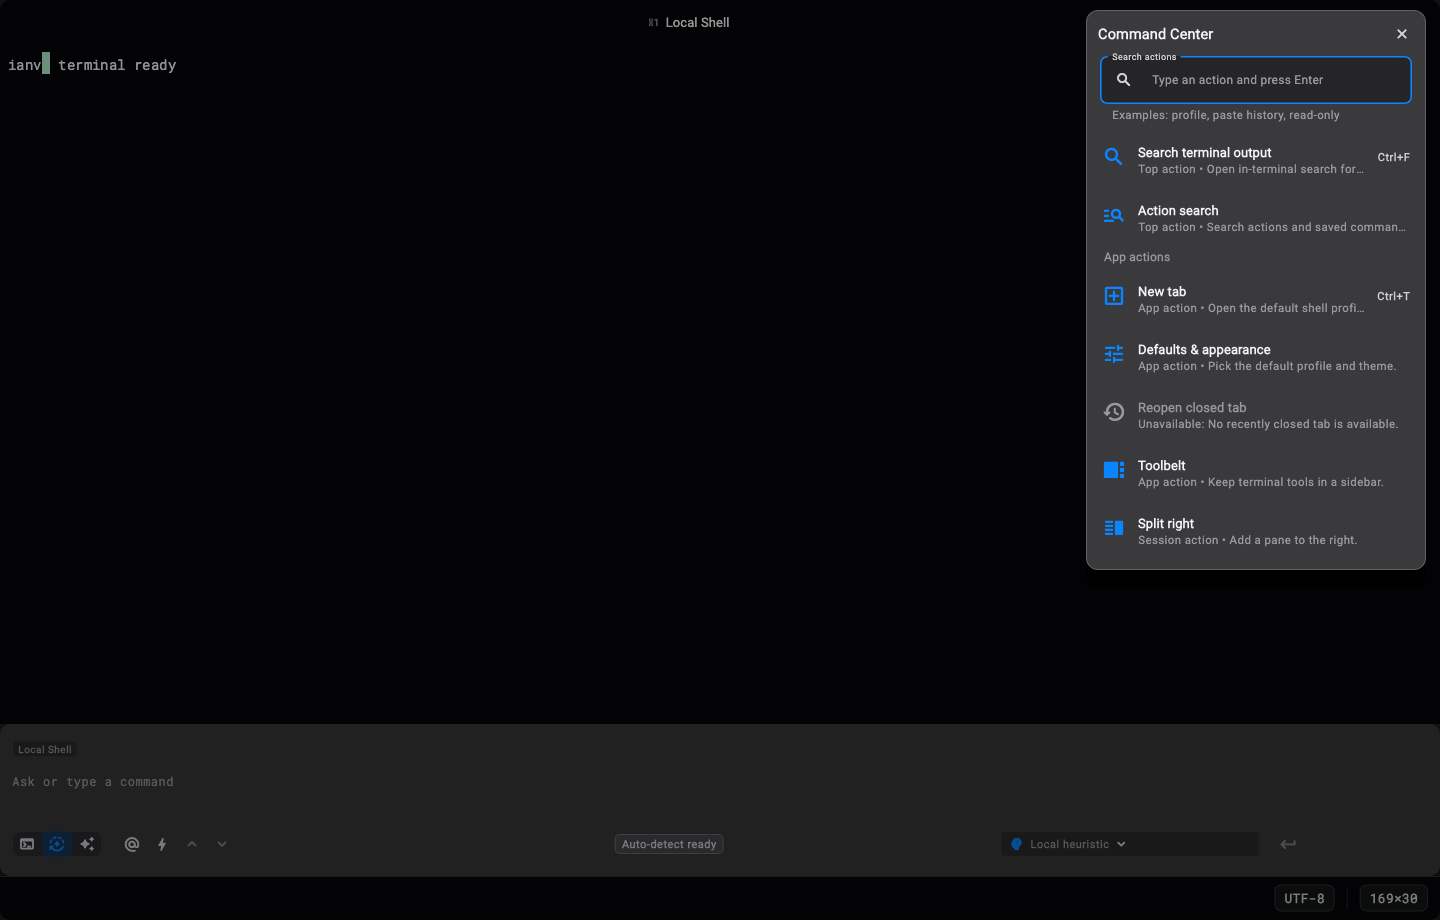
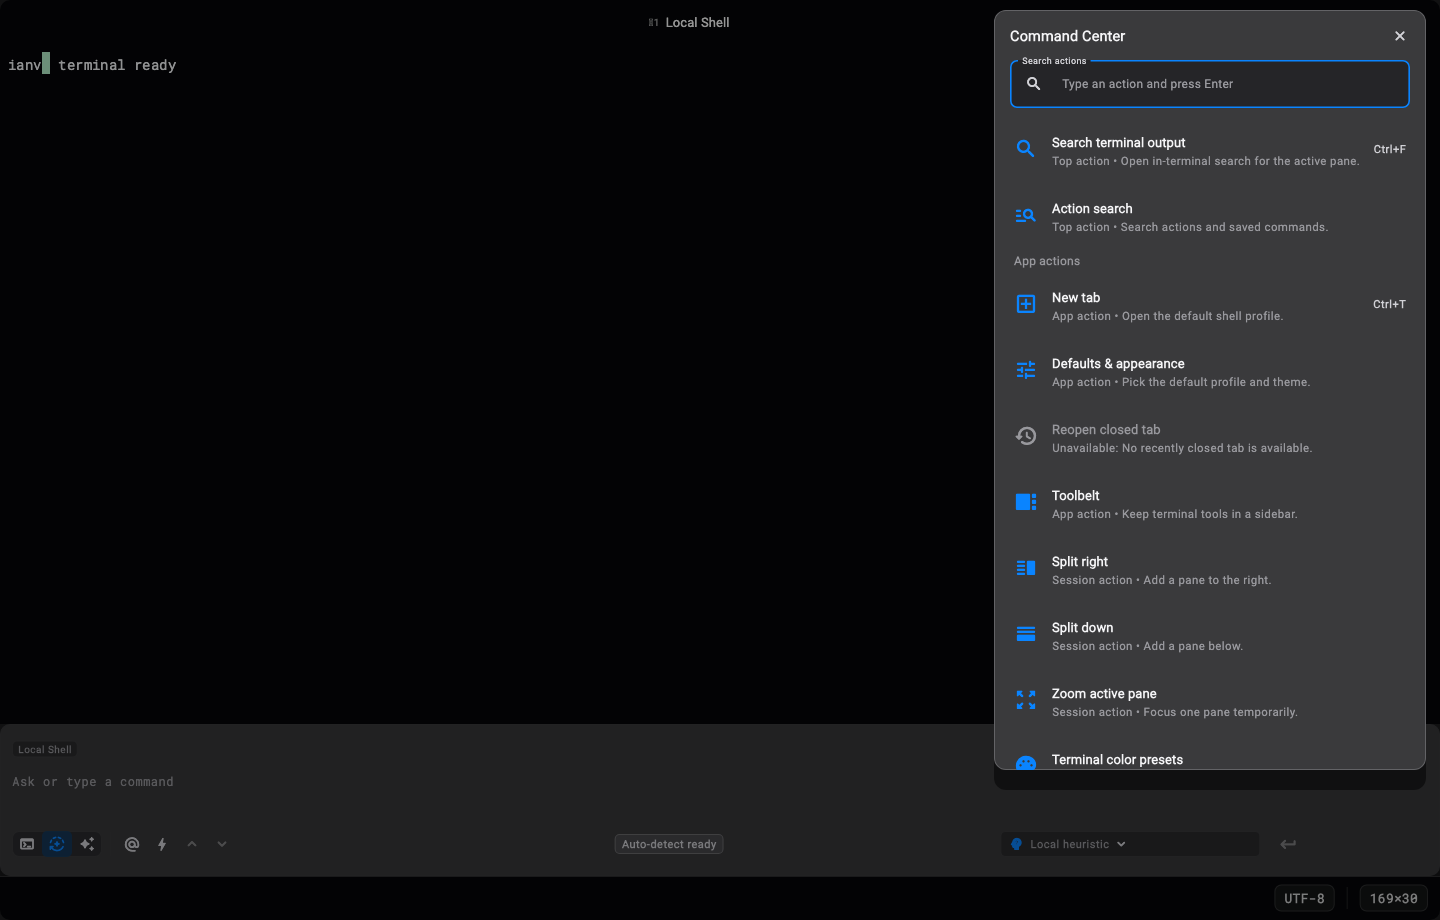
Polish command center layout from visual reference

Changed region(s): [[0.6875, 0.0, 1.0, 0.8522], [0.8438, 0.2435, 0.9688, 0.2739], [0.9375, 0.3043, 0.9688, 0.3348]]

diff --git a/example/lib/features/shell/shell_screen_command_menu.dart b/example/lib/features/shell/shell_screen_command_menu.dart
@@ -102,9 +102,15 @@ class _ShellCommandMenuState extends State<_ShellCommandMenu> {
   @override
   Widget build(BuildContext context) {
     final palette = context.appTheme;
-    final maxMenuHeight = (MediaQuery.sizeOf(context).height - 24)
-        .clamp(360.0, 560.0)
-        .toDouble();
+    final viewportSize = MediaQuery.sizeOf(context);
+    final maxMenuWidth = math.min(
+      432.0,
+      math.max(0.0, viewportSize.width - 28),
+    );
+    final maxMenuHeight = math.min(
+      760.0,
+      math.max(0.0, viewportSize.height - 24),
+    );
     final launcherShortcutLabel = widget.launcherShortcutLabel;
     final newTabShortcutLabel = widget.newTabShortcutLabel;
     final hotkeyWindowShortcutLabel = widget.hotkeyWindowShortcutLabel;
@@ -250,7 +256,10 @@ class _ShellCommandMenuState extends State<_ShellCommandMenu> {
       key: const Key('shell-command-menu-overlay'),
       color: Colors.transparent,
       child: ConstrainedBox(
-        constraints: BoxConstraints(maxWidth: 340, maxHeight: maxMenuHeight),
+        constraints: BoxConstraints(
+          maxWidth: maxMenuWidth,
+          maxHeight: maxMenuHeight,
+        ),
         child: DecoratedBox(
           decoration: BoxDecoration(
             color: palette.overlay,
@@ -262,12 +271,12 @@ class _ShellCommandMenuState extends State<_ShellCommandMenu> {
             type: MaterialType.transparency,
             child: SingleChildScrollView(
               child: Padding(
-                padding: const EdgeInsets.all(6),
+                padding: const EdgeInsets.all(8),
                 child: Column(
                   mainAxisSize: MainAxisSize.min,
                   children: [
                     Padding(
-                      padding: const EdgeInsets.fromLTRB(6, 2, 2, 2),
+                      padding: const EdgeInsets.fromLTRB(8, 2, 2, 4),
                       child: Row(
                         children: [
                           Expanded(
@@ -288,7 +297,7 @@ class _ShellCommandMenuState extends State<_ShellCommandMenu> {
                       ),
                     ),
                     Padding(
-                      padding: const EdgeInsets.fromLTRB(8, 4, 8, 6),
+                      padding: const EdgeInsets.fromLTRB(8, 4, 8, 8),
                       child: MergeSemantics(
                         child: Semantics(
                           label: 'Search actions',
@@ -304,8 +313,6 @@ class _ShellCommandMenuState extends State<_ShellCommandMenu> {
                               prefixIcon: const Icon(Icons.search_rounded),
                               labelText: 'Search actions',
                               hintText: 'Type an action and press Enter',
-                              helperText:
-                                  'Examples: profile, paste history, read-only',
                               border: OutlineInputBorder(
                                 borderRadius: BorderRadius.circular(
                                   palette.radius.lg,
@@ -1208,8 +1215,10 @@ class _ShellCommandTile extends StatelessWidget {
         : 'Unavailable: ${disabledReason ?? 'Unavailable in the current context.'}';
     final tile = ListTile(
       dense: true,
-      visualDensity: const VisualDensity(horizontal: -2, vertical: -2),
-      contentPadding: const EdgeInsets.symmetric(horizontal: 10, vertical: 1),
+      visualDensity: const VisualDensity(horizontal: -1, vertical: -1),
+      contentPadding: const EdgeInsets.symmetric(horizontal: 12, vertical: 3),
+      minLeadingWidth: 28,
+      horizontalTitleGap: 12,
       shape: RoundedRectangleBorder(
         borderRadius: BorderRadius.circular(palette.radius.lg),
       ),

diff --git a/example/test/shell/shell_screen_phase2a_test.dart b/example/test/shell/shell_screen_phase2a_test.dart
@@ -74,6 +74,10 @@ void main() {
 
     expect(find.text('Command Center'), findsOneWidget);
     expect(find.byKey(const Key('shell-command-menu-overlay')), findsOneWidget);
+    expect(
+      tester.getSize(find.byKey(const Key('shell-command-menu-overlay'))).width,
+      greaterThanOrEqualTo(400),
+    );
     expect(find.text('New tab'), findsOneWidget);
     expect(find.text('Search terminal output'), findsWidgets);
     expect(find.text('Search scrollback'), findsNothing);

diff --git a/design-qa.md b/design-qa.md
@@ -1,0 +1,48 @@
+**Source Visual**
+- Path: `docs/assets/local-terminal-user-journeys/generated-reference/ianvs-layout-polish-reference.png`
+- Role: ImageGen layout-polish reference for a dark desktop developer workspace.
+
+**Implementation**
+- Screenshot path: `docs/assets/local-terminal-user-journeys/captures/04-command-center.png`
+- Viewport: 1440 x 920, dark theme, Command Center open from the shell workspace.
+- State: existing production Command Center, adapted toward a wider right-side control surface while preserving current actions, copy, shortcuts, and routing behavior.
+
+**Comparison Evidence**
+- Full-view comparison: `docs/assets/local-terminal-user-journeys/qa/command-center-full-comparison.png`
+- Focused panel comparison: `docs/assets/local-terminal-user-journeys/qa/command-center-panel-comparison.png`
+
+**Findings**
+- No actionable P0/P1/P2 mismatches for this scoped production adaptation.
+  Location: Command Center panel in `example/lib/features/shell/shell_screen_command_menu.dart`.
+  Evidence: the reference emphasizes a wider right-side action panel with clearer row spacing; the implementation now expands the Command Center to a wider responsive max width, increases row breathing room, and removes the helper-text line that made the search area read like instructional copy.
+  Impact: the visible hierarchy and scannability are closer to the reference without changing the app's existing action model.
+  Fix: no blocking fix remains.
+
+**Required Fidelity Surfaces**
+- Fonts and typography: implementation keeps the app's existing theme typography and weights. This is acceptable because the reference is a generated polish direction, not a font clone target.
+- Spacing and layout rhythm: panel width, search spacing, and action row padding were adjusted to reduce truncation and match the reference's denser right-side control surface.
+- Colors and visual tokens: implementation preserves existing dark theme tokens and blue accent states instead of introducing new generated colors.
+- Image quality and asset fidelity: no new in-app raster assets were required; generated reference and QA evidence are stored as documentation assets only.
+- Copy and content: implementation intentionally preserves current Command Center labels, shortcuts, disabled copy, and action ordering.
+
+**Patches Made**
+- Increased Command Center responsive max width and max height.
+- Removed the visible search helper text from the panel.
+- Increased action-row horizontal and vertical padding.
+- Added a widget test assertion that the opened menu stays at a readable wide-panel size.
+- Updated the Command Center journey screenshot.
+
+**Open Questions**
+- The reference includes a selected action row and footer actions. Those are treated as future P3 polish because adding selection state or footer controls would exceed this small-layout pass.
+
+**Implementation Checklist**
+- [x] Source visual target saved in the repo.
+- [x] Implementation screenshot captured for the same Command Center state.
+- [x] Full-view and focused comparison images saved.
+- [x] P0/P1/P2 findings resolved or classified as not applicable to this scoped production adaptation.
+
+**Follow-up Polish**
+- P3: consider a keyboard-selected row treatment for the first matching action.
+- P3: consider a compact footer for secondary action-management links if the action model grows.
+
+final result: passed

diff --git a/docs/LOCAL_TERMINAL_USER_JOURNEYS.md b/docs/LOCAL_TERMINAL_USER_JOURNEYS.md
@@ -59,6 +59,16 @@ Date: 2026-06-21
 | 09 | Journey 7: 打开 Command Search | <img src="assets/local-terminal-user-journeys/captures/09-command-search.png" width="320" alt="Command Search screenshot"> |
 | 10 | Journey 9: 打开 Toolbelt | <img src="assets/local-terminal-user-journeys/captures/10-toolbelt.png" width="320" alt="Toolbelt screenshot"> |
 
+## 视觉布局优化参考
+
+本轮使用 ImageGen 生成了一个小范围 layout polish 参考图，并将可安全落地的部分应用到现有 Flutter UI：Command Center 在宽屏上更接近右侧控制面，动作行留白更清晰，搜索区移除了说明性 helper 文本。相关 QA 记录见根目录 [../design-qa.md](../design-qa.md)。
+
+| Artifact | 用途 | 预览 |
+| --- | --- | --- |
+| ImageGen reference | 小范围 UI 布局优化方向 | <img src="assets/local-terminal-user-journeys/generated-reference/ianvs-layout-polish-reference.png" width="320" alt="Ianvs layout polish reference"> |
+| Full comparison | 参考图与实现截图的全局对比 | <img src="assets/local-terminal-user-journeys/qa/command-center-full-comparison.png" width="320" alt="Command Center full comparison"> |
+| Focused comparison | 右侧 Command Center 面板局部对比 | <img src="assets/local-terminal-user-journeys/qa/command-center-panel-comparison.png" width="320" alt="Command Center panel comparison"> |
+
 ## Journey 1: 首次启动进入 Shell Workspace
 
 触发入口：
